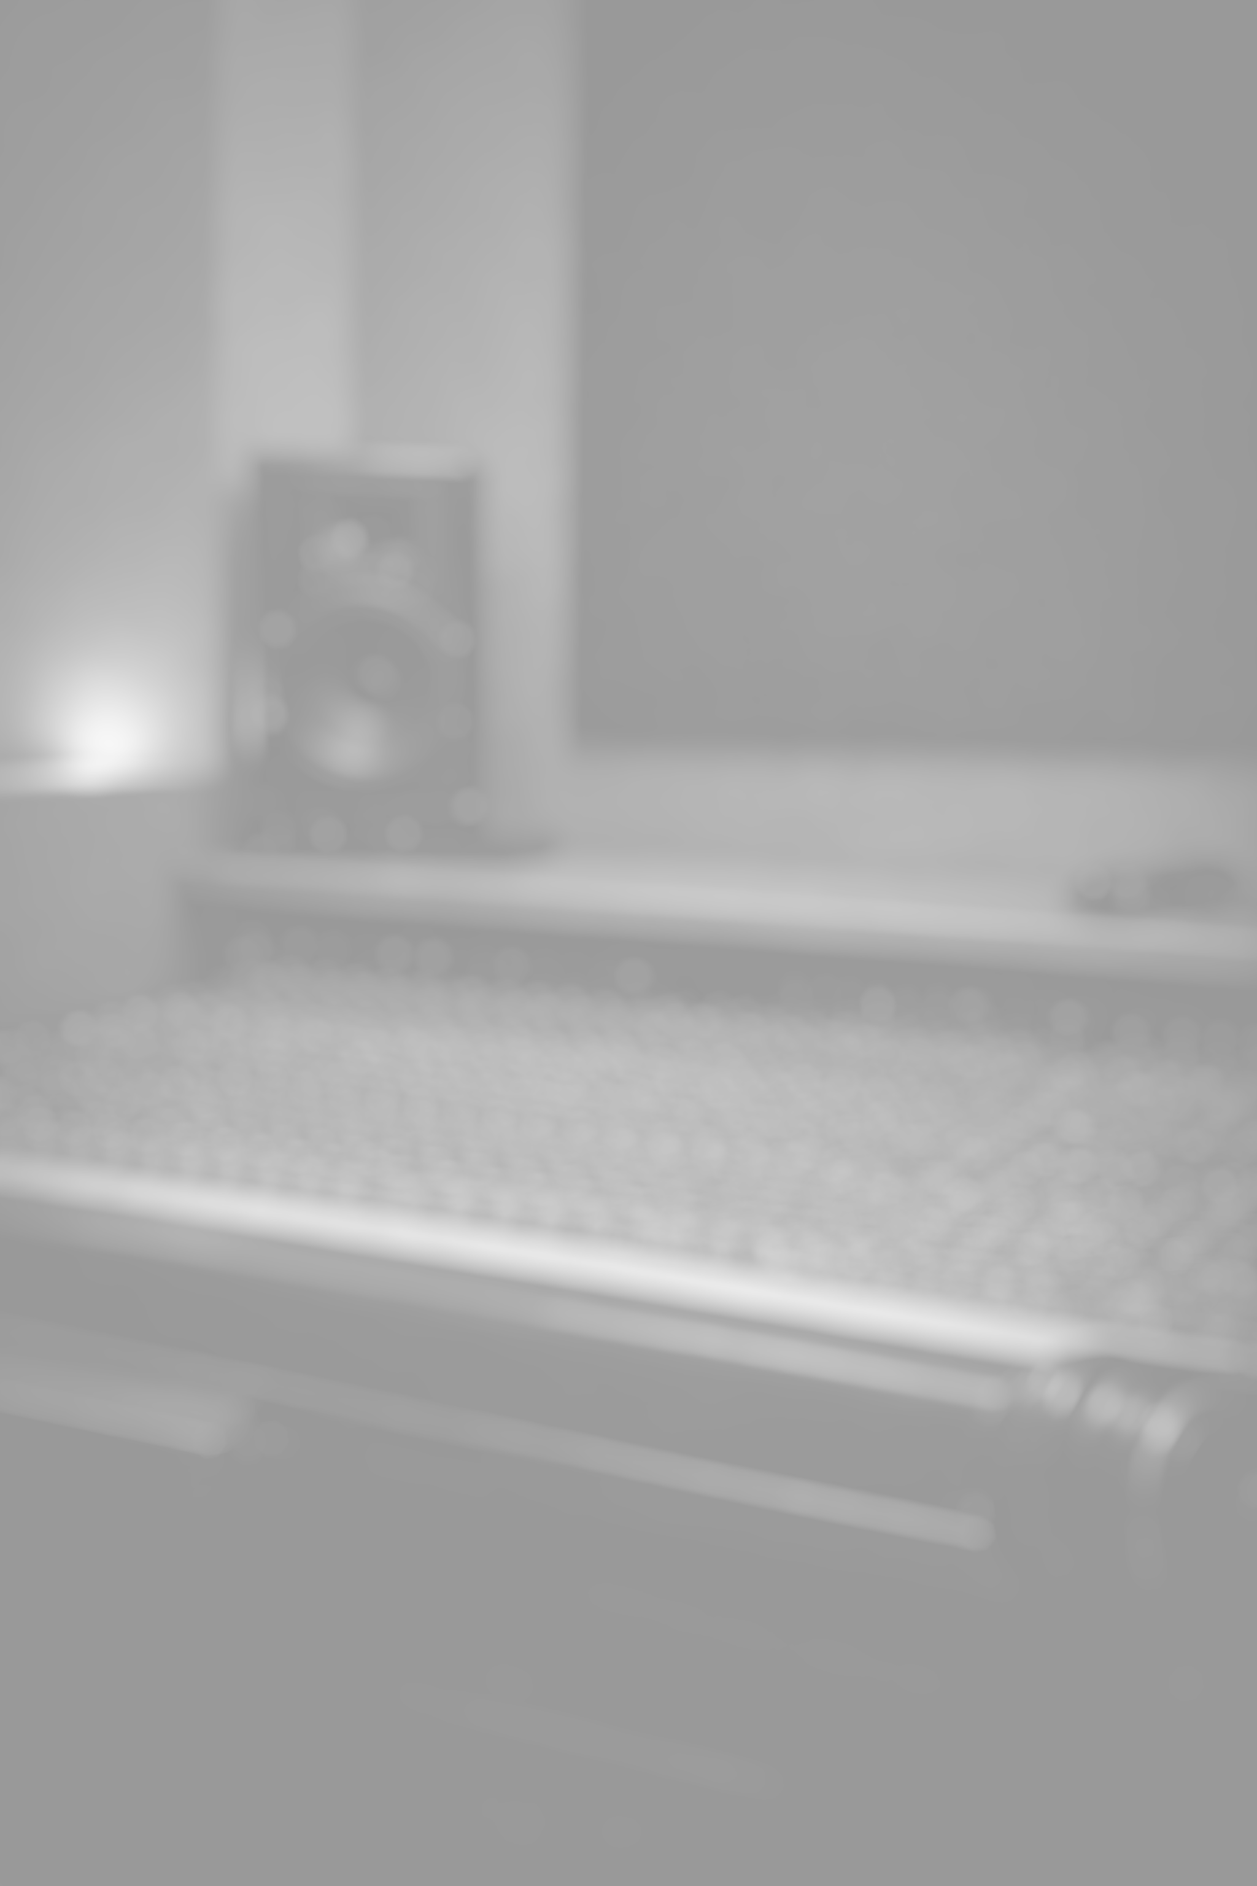
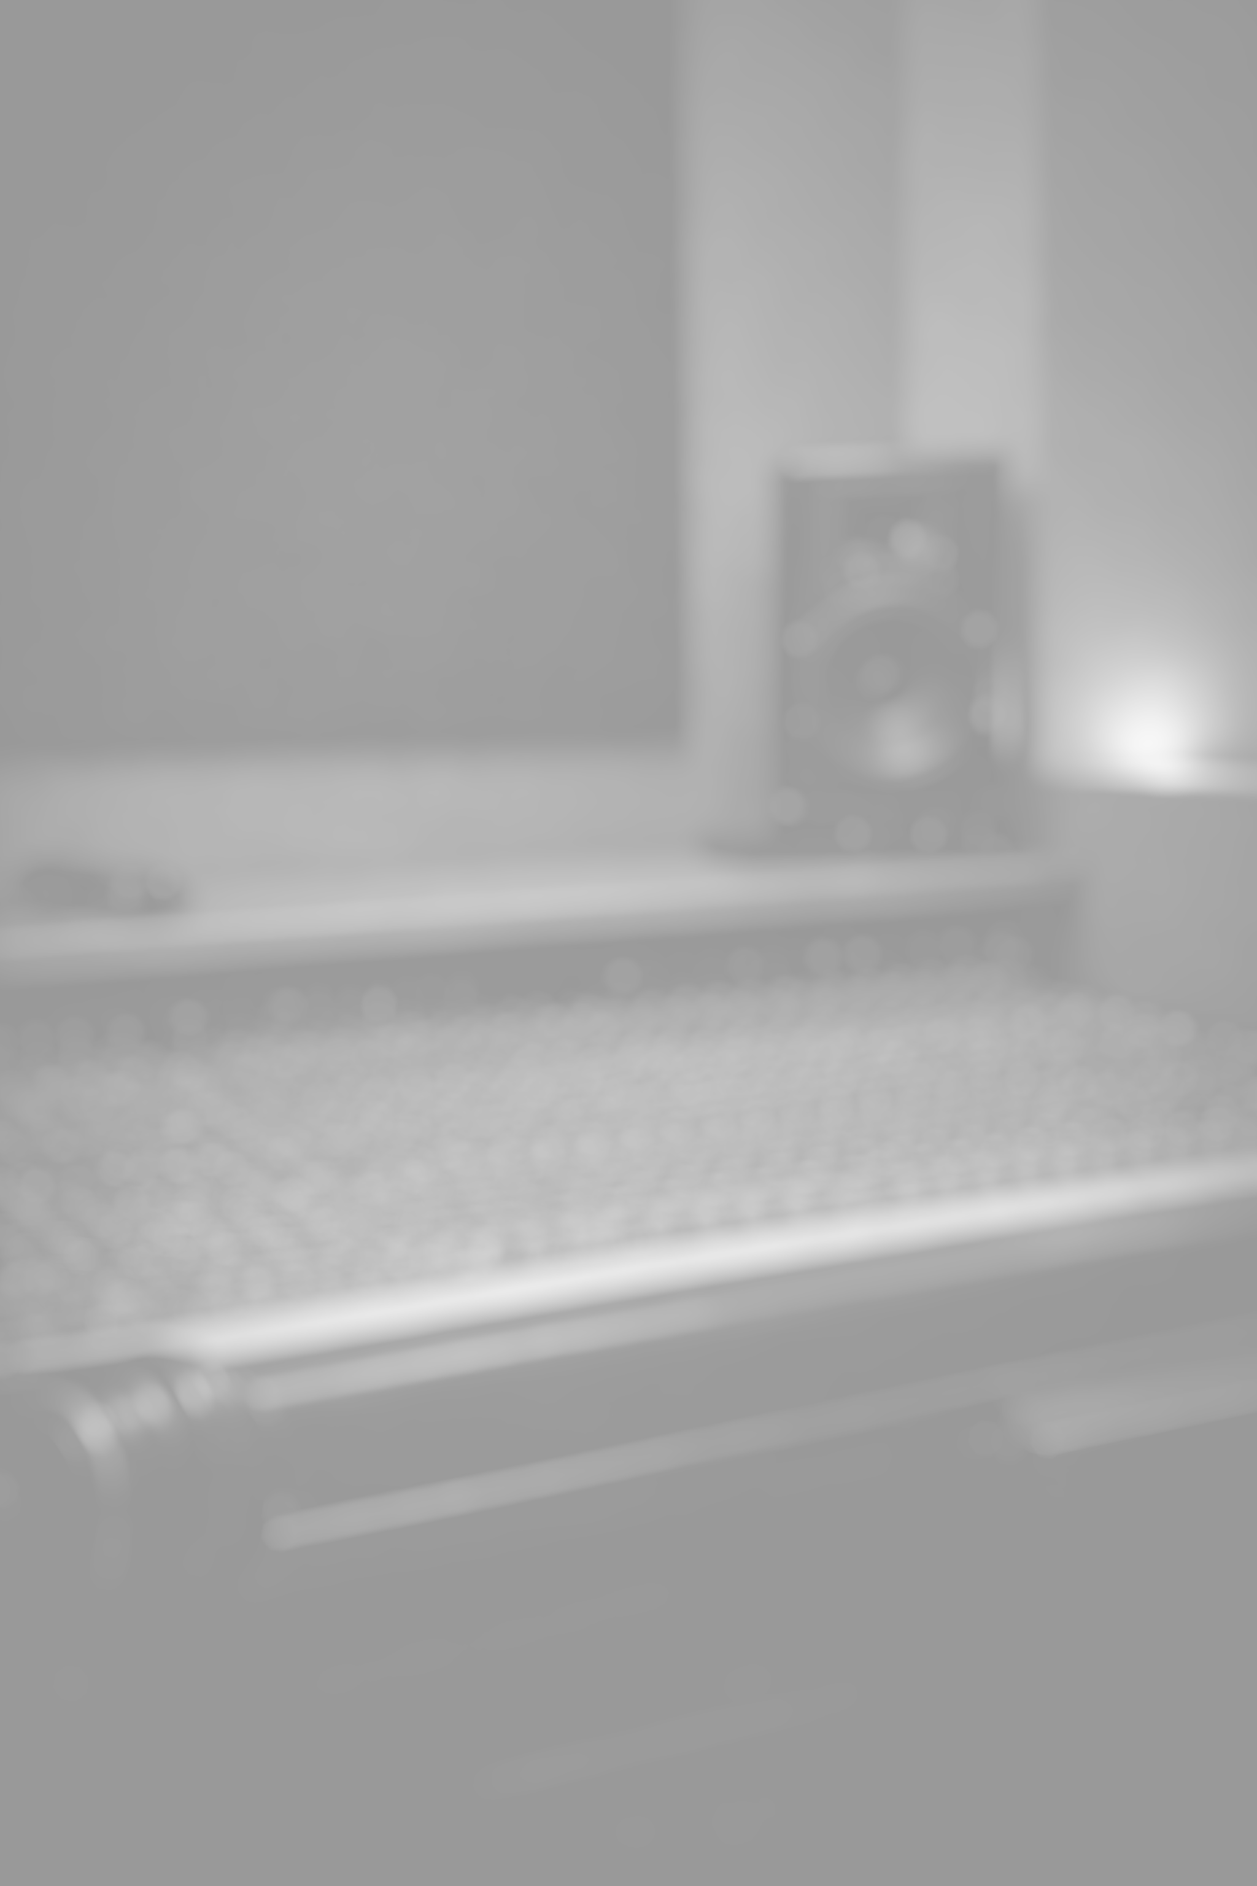
Updated Background Image & Stylesheet

diff --git a/public/css/stylesheet.css b/public/css/stylesheet.css
@@ -1,1 +1,1 @@
-:root{font-size:62.5%;--height: calc( var( --vh, 1vh ) * 100 );--width: calc( var( --vw, 1vw ) * 100 )}*,*::before,*::after{box-sizing:border-box;padding:0;margin:0;line-height:1;transform:translate3d(0, 0, 0);-webkit-tap-highlight-color:rgba(0,0,0,0)}ul{list-style:none}li{list-style-type:none}@font-face{font-family:'Posterama';src:url("../font/Posterama.eot");src:local("Posterama"),local("Posterama"),url("../font/Posterama.eot?#iefix") format("embedded-opentype"),url("../font/Posterama.woff2") format("woff2"),url("../font/Posterama.woff") format("woff"),url("../font/Posterama.ttf") format("truetype"),url("../font/Posterama.svg#Posterama") format("svg");font-weight:normal;font-style:normal;font-display:swap}::-webkit-scrollbar,::-webkit-scrollbar-button,::-webkit-scrollbar-track,::-webkit-scrollbar-track-piece,::-webkit-scrollbar-thumb,::-webkit-scrollbar-corner,::-webkit-resizer{display:none !important;background:none !important;background-color:transparent !important;border-radius:0 !important;box-shadow:none !important;border:none !important;outline:none !important;width:0 !important;height:0 !important;-webkit-appearance:none !important;-moz-appearance:none !important;appearance:none !important}body{scrollbar-color:transparent !important;scrollbar-width:0 !important}::-moz-selection,::selection{background-color:rgba(0,0,0,0);color:#FFF}:-moz-placeholder{color:rgba(255,255,255,0.9)}::-moz-placeholder{color:rgba(255,255,255,0.9)}:-ms-input-placeholder{color:rgba(255,255,255,0.9)}::-webkit-input-placeholder{color:rgba(255,255,255,0.9)}:placeholder-shown{color:rgba(255,255,255,0.9)}::placeholder{color:rgba(255,255,255,0.9)}html,body{height:100vh;width:100vw;background-color:#080808;background:url("../image/studio.png") no-repeat,linear-gradient(90deg, #1a1a1a 0%, #080808 50%, #1a1a1a 100%);background:url("../image/studio.png") no-repeat,linear-gradient( 90deg, hsl(0deg 4% 11%) 0%, hsl(0deg 3% 9%) 13%, hsl(0deg 2% 7%) 25%, hsl(0deg 1% 5%) 37%, hsl(0deg 0% 3%) 50%, hsl(0deg 1% 5%) 63%, hsl(0deg 2% 7%) 75%, hsl(0deg 3% 9%) 87%, hsl(0deg 4% 11%) 100% );background-size:cover;color:rgba(255,255,255,0.9);font:normal normal 700 1.6rem/1.168em -apple-system, BlinkMacSystemFont, segoe ui, helvetica neue, helvetica, Ubuntu, roboto, sans-serif;font-smoothing:antialiased;-moz-osx-font-smoothing:grayscale;-webkit-font-smoothing:antialiased;-moz-text-shadow:1px 1px 1px rgba(0,0,0,0.0004);-ms-text-shadow:1px 1px 1px rgba(0,0,0,0.0004);-o-text-shadow:1px 1px 1px rgba(0,0,0,0.0004);-webkit-text-shadow:1px 1px 1px rgba(0,0,0,0.0004);text-shadow:1px 1px 1px rgba(0,0,0,0.0004);-ms-backface-visibility:hidden;-moz-backface-visibility:hidden;-o-backface-visibility:hidden;-webkit-backface-visibility:hidden;-webkit-overflow-scrolling:touch;backface-visibility:hidden;scroll-behavior:smooth;overflow:hidden;height:var(--height);width:var(--width);-webkit-app-region:drag}body{display:grid;height:100vh;width:100vw;height:var(--height);width:var(--width);grid-template-columns:100%;grid-template-rows:85% 15%}body>header{display:flex;justify-content:center;grid-area:1 / 1 / span 1 / span 1;height:100%;width:100%;pointer-events:none;user-select:none}body>header>picture{position:absolute;display:flex;height:auto;width:clamp(100px, 80vw, 500px);width:clamp(100px, calc( 80 * var( --vw )), 500px);align-self:start;justify-content:center;align-items:center;margin-top:-5vh;margin-top:calc( -5 * var( --vh ));object-fit:contain;pointer-events:none;user-select:none}body>header>picture>img{height:auto;width:100%;opacity:0;pointer-events:none;user-select:none;animation:fade-logo 300ms ease-out 800ms forwards}body>header>h1{font-family:"Posterama", sans-serif;color:rgba(181,182,170,0.6);text-align:center;font-size:clamp(1.6em, 5vw, 7vh);font-size:clamp(1.6em, calc( 5 * var( --vw )), calc( 7 * var( --vh )));font-weight:100;text-shadow:1px 1px 2px rgba(11,11,11,0.4);white-space:nowrap;margin-top:16vh;margin-top:calc( 16 * var( --vh ));opacity:0;pointer-events:none;user-select:none;animation:fade-title 300ms ease-out 800ms forwards}body>main{position:absolute;top:0;left:0;display:flex;place-content:center;height:100vh;width:100vw;height:var(--height);width:var(--width);grid-area:1 / 1 / span 1 / span 1}body>main>iframe{height:clamp(30vh, calc( 0.6 * 80vw), 40vh);height:clamp(calc( 30 * var( --vh )), calc( 0.6 * calc( 80 * var( --vw ) )), calc( 40* var( --vh )));width:70vw;width:calc( 70 * var( --vw ));align-self:center;justify-self:center;margin-top:30vh;margin-top:calc( 30 * var( --vh ));opacity:0;animation:fade-widget 300ms ease-out 1000ms forwards;z-index:2}body>main>picture{position:fixed;top:0;margin-top:20vh;margin-top:calc( 20 * var( --vh ));object-fit:contain;pointer-events:none;user-select:none;z-index:1}body>main>picture>img{width:100%;height:auto;object-fit:contain;transform:scalex(-1);opacity:0;pointer-events:none;user-select:none;animation:fade-feature 400ms ease-out 300ms forwards}body>nav{display:flex;width:100vw;width:var(--width);justify-content:center;align-items:center;grid-area:2 / 1 / span 1 / span 1;background:linear-gradient(0deg, rgba(8,8,8,0.8) 50%, rgba(8,8,8,0) 100%);opacity:0;animation:fade-icons 300ms ease-out 500ms forwards}body>nav>ul{display:flex;width:100vw;width:var(--width);padding:0 10vw;padding:0 calc( 10 * var( --vw ));flex-direction:row;flex-wrap:nowrap;justify-content:space-between}body>nav>ul>li>a,body>nav>ul>li a:link,body>nav>ul>li a:visited,body>nav>ul>li a:hover,body>nav>ul>li a:active{color:rgba(202,202,203,0.9);font-family:-apple-system, BlinkMacSystemFont, segoe ui, "Segoe UI", helvetica neue, helvetica, Tahoma, Geneva, Verdana, Ubuntu, roboto, sans-serif;font-size:1rem;text-decoration:none;font-weight:700;text-align:center}body>nav>ul>li>a>figure,body>nav>ul>li a:link>figure,body>nav>ul>li a:visited>figure,body>nav>ul>li a:hover>figure,body>nav>ul>li a:active>figure{display:flex;flex-direction:column;justify-content:center;align-items:center}body>nav>ul>li>a>figure>picture,body>nav>ul>li a:link>figure>picture,body>nav>ul>li a:visited>figure>picture,body>nav>ul>li a:hover>figure>picture,body>nav>ul>li a:active>figure>picture{display:flex;height:auto;width:clamp(6vh, 12vw, 46px);width:clamp(6vh, calc( 12 * var( --vw )), 46px)}body>nav>ul>li>a>figure>picture>img,body>nav>ul>li a:link>figure>picture>img,body>nav>ul>li a:visited>figure>picture>img,body>nav>ul>li a:hover>figure>picture>img,body>nav>ul>li a:active>figure>picture>img{height:auto;width:100%;border:none;outline:none;opacity:0.9}body>nav>ul>li>a>figure>figcaption,body>nav>ul>li a:link>figure>figcaption,body>nav>ul>li a:visited>figure>figcaption,body>nav>ul>li a:hover>figure>figcaption,body>nav>ul>li a:active>figure>figcaption{display:none;margin-top:1rem;font-size:1.6em;font-weight:900;text-transform:uppercase;font-family:'Segoe UI', Tahoma, Geneva, Verdana, sans-serif;color:rgba(202,202,203,0.4)}body>nav>ul>li[data-view=full],body>nav>ul>li[data-show=false]{display:none}body>footer{position:fixed;display:none;bottom:1vh;bottom:calc( 1 * var( --vh ));left:0;width:100vw;width:var(--width);padding-bottom:env(safe-area-inset-bottom)}body>footer>ul{display:flex;flex-direction:row;flex-wrap:nowrap;align-items:center;justify-content:flex-end}body>footer>ul>li{color:rgba(202,202,203,0.2);font-family:-apple-system, BlinkMacSystemFont, segoe ui, "Segoe UI", helvetica neue, helvetica, Tahoma, Geneva, Verdana, Ubuntu, roboto, sans-serif;font-size:0.8em;font-size:clamp(0.8em, 0.8rem, 12px);font-weight:600;margin-right:1vw;margin-right:calc( 1 * var( --vw ))}@media only screen and (orientation: landscape){body{grid-template-rows:80% 20%}body>main>iframe{height:30vh;height:calc( 30 * var( --vh ));width:40vw;width:calc( 40 * var( --vw ))}body>main>picture{top:0;bottom:unset;height:auto;height:30vh;height:calc( 30 * var( --vh ));margin-top:4vh;margin-top:calc( 4 * var( --vh ));z-index:1}body>nav>ul>li>a>figure>picture,body>nav>ul>li a:link>figure>picture,body>nav>ul>li a:visited>figure>picture,body>nav>ul>li a:hover>figure>picture,body>nav>ul>li a:active>figure>picture{width:clamp(2vh, 10vh, 64px);width:clamp(calc( 2 * var( --vh )), calc( 10 * var( --vh )), 64px)}body>nav>ul>li[data-view=full]{display:unset}}@media only screen and (min-width: 768px) and (min-height: 1024px){body{grid-template-rows:30% 70%}body>header>picture{position:absolute;height:30vh;height:calc( 30 * var( --vh ));width:auto}body>header>picture>img{height:100%;width:auto}body>header>h1{display:unset;animation:fade-title 300ms ease-out 800ms forwards}body>main{grid-area:2 / 1 / span 1 / span 1}body>main>iframe{width:30vw;height:30vh;width:calc( 30 * var( --vw ));height:calc( 30 * var( --vh ));max-width:600px;max-height:400px;align-self:end;margin-bottom:40vh;margin-bottom:calc( 40 * var( --vh ))}body>main>picture{height:80vh;height:calc( 80 * var( --vh ));width:auto;margin-top:unset;z-index:1}body>main>picture>img{height:100%;width:auto}body>nav{grid-area:1 / 1 / span 1 / span 1;background:none;align-self:end;margin-bottom:1vh;margin-bottom:calc( 1 * var( --vh ))}body>nav>ul{justify-content:center}body>nav>ul>li{width:clamp(calc( 2vh * 2), calc( 10vh * 2), calc( 64px * 2));width:clamp(calc( calc( 2 * var( --vh ) ) * 2), calc( calc( 10 * var( --vh ) ) * 2), calc( 64px * 2))}body>nav>ul>li>a>figure>picture,body>nav>ul>li a:link>figure>picture,body>nav>ul>li a:visited>figure>picture,body>nav>ul>li a:hover>figure>picture,body>nav>ul>li a:active>figure>picture{width:clamp(2vh, 10vh, 64px);width:clamp(calc( 2 * var( --vh )), calc( 10 * var( --vh )), 64px)}body>nav>ul>li[data-view=full]{display:unset}body>footer{display:unset}}@keyframes fade-feature{to{opacity:0.94}}@keyframes fade-icons{to{opacity:1}}@keyframes fade-logo{to{opacity:0.3}}@keyframes fade-title{to{opacity:1}}@keyframes fade-widget{to{opacity:0.7}}@media (min-width: 1025px) and (pointer: fine) and (hover: hover){@keyframes fade-logo{to{opacity:0.3}}}
+:root{font-size:62.5%;--height: calc( var( --vh, 1vh ) * 100 );--width: calc( var( --vw, 1vw ) * 100 )}*,*::before,*::after{box-sizing:border-box;padding:0;margin:0;line-height:1;transform:translate3d(0, 0, 0);-webkit-tap-highlight-color:rgba(0,0,0,0)}ul{list-style:none}li{list-style-type:none}@font-face{font-family:'Posterama';src:url("../font/Posterama.eot");src:local("Posterama"),local("Posterama"),url("../font/Posterama.eot?#iefix") format("embedded-opentype"),url("../font/Posterama.woff2") format("woff2"),url("../font/Posterama.woff") format("woff"),url("../font/Posterama.ttf") format("truetype"),url("../font/Posterama.svg#Posterama") format("svg");font-weight:normal;font-style:normal;font-display:swap}::-webkit-scrollbar,::-webkit-scrollbar-button,::-webkit-scrollbar-track,::-webkit-scrollbar-track-piece,::-webkit-scrollbar-thumb,::-webkit-scrollbar-corner,::-webkit-resizer{display:none !important;background:none !important;background-color:transparent !important;border-radius:0 !important;box-shadow:none !important;border:none !important;outline:none !important;width:0 !important;height:0 !important;-webkit-appearance:none !important;-moz-appearance:none !important;appearance:none !important}body{scrollbar-color:transparent !important;scrollbar-width:0 !important}::-moz-selection,::selection{background-color:rgba(0,0,0,0);color:#FFF}:-moz-placeholder{color:rgba(255,255,255,0.9)}::-moz-placeholder{color:rgba(255,255,255,0.9)}:-ms-input-placeholder{color:rgba(255,255,255,0.9)}::-webkit-input-placeholder{color:rgba(255,255,255,0.9)}:placeholder-shown{color:rgba(255,255,255,0.9)}::placeholder{color:rgba(255,255,255,0.9)}html,body{height:100vh;width:100vw;background-color:#080808;background:url("../image/studio.png") no-repeat,linear-gradient(90deg, #1a1a1a 0%, #080808 50%, #1a1a1a 100%);background:url("../image/studio.png") no-repeat,linear-gradient( 90deg, hsl(0deg 4% 11%) 0%, hsl(0deg 3% 9%) 13%, hsl(0deg 2% 7%) 25%, hsl(0deg 1% 5%) 37%, hsl(0deg 0% 3%) 50%, hsl(0deg 1% 5%) 63%, hsl(0deg 2% 7%) 75%, hsl(0deg 3% 9%) 87%, hsl(0deg 4% 11%) 100% );background-size:cover;color:rgba(255,255,255,0.9);font:normal normal 700 1.6rem/1.168em -apple-system, BlinkMacSystemFont, segoe ui, helvetica neue, helvetica, Ubuntu, roboto, sans-serif;font-smoothing:antialiased;-moz-osx-font-smoothing:grayscale;-webkit-font-smoothing:antialiased;-moz-text-shadow:1px 1px 1px rgba(0,0,0,0.0004);-ms-text-shadow:1px 1px 1px rgba(0,0,0,0.0004);-o-text-shadow:1px 1px 1px rgba(0,0,0,0.0004);-webkit-text-shadow:1px 1px 1px rgba(0,0,0,0.0004);text-shadow:1px 1px 1px rgba(0,0,0,0.0004);-ms-backface-visibility:hidden;-moz-backface-visibility:hidden;-o-backface-visibility:hidden;-webkit-backface-visibility:hidden;-webkit-overflow-scrolling:touch;backface-visibility:hidden;scroll-behavior:smooth;overflow:hidden;height:var(--height);width:var(--width);-webkit-app-region:drag}body{display:grid;height:100vh;width:100vw;height:var(--height);width:var(--width);grid-template-columns:100%;grid-template-rows:85% 15%}body>header{display:flex;justify-content:center;grid-area:1 / 1 / span 1 / span 1;height:100%;width:100%;pointer-events:none;user-select:none}body>header>picture{position:absolute;display:flex;height:auto;width:clamp(100px, 80vw, 500px);width:clamp(100px, calc( 80 * var( --vw )), 500px);align-self:start;justify-content:center;align-items:center;margin-top:-5vh;margin-top:calc( -5 * var( --vh ));object-fit:contain;pointer-events:none;user-select:none}body>header>picture>img{height:auto;width:100%;opacity:0;pointer-events:none;user-select:none;animation:fade-logo 300ms ease-out 800ms forwards}body>header>h1{font-family:"Posterama", sans-serif;color:rgba(181,182,170,0.6);text-align:center;font-size:clamp(1.6em, 5vw, 7vh);font-size:clamp(1.6em, calc( 5 * var( --vw )), calc( 7 * var( --vh )));font-weight:100;text-shadow:1px 1px 2px rgba(11,11,11,0.4);white-space:nowrap;margin-top:16vh;margin-top:calc( 16 * var( --vh ));opacity:0;pointer-events:none;user-select:none;animation:fade-title 300ms ease-out 800ms forwards}body>main{position:absolute;top:0;left:0;display:flex;place-content:center;height:100vh;width:100vw;height:var(--height);width:var(--width);grid-area:1 / 1 / span 1 / span 1}body>main>iframe{height:clamp(30vh, calc( 0.6 * 80vw), 40vh);height:clamp(calc( 30 * var( --vh )), calc( 0.6 * calc( 80 * var( --vw ) )), calc( 40* var( --vh )));width:70vw;width:calc( 70 * var( --vw ));align-self:center;justify-self:center;margin-top:30vh;margin-top:calc( 30 * var( --vh ));opacity:0;animation:fade-widget 300ms ease-out 1000ms forwards;z-index:2}body>main>picture{position:fixed;top:0;margin-top:20vh;margin-top:calc( 20 * var( --vh ));object-fit:contain;pointer-events:none;user-select:none;z-index:1}body>main>picture>img{width:100%;height:auto;object-fit:contain;opacity:0;pointer-events:none;user-select:none;animation:fade-feature 400ms ease-out 300ms forwards}body>nav{display:flex;width:100vw;width:var(--width);justify-content:center;align-items:center;grid-area:2 / 1 / span 1 / span 1;background:linear-gradient(0deg, rgba(8,8,8,0.8) 50%, rgba(8,8,8,0) 100%);opacity:0;animation:fade-icons 300ms ease-out 500ms forwards}body>nav>ul{display:flex;width:100vw;width:var(--width);padding:0 10vw;padding:0 calc( 10 * var( --vw ));flex-direction:row;flex-wrap:nowrap;justify-content:space-between}body>nav>ul>li>a,body>nav>ul>li a:link,body>nav>ul>li a:visited,body>nav>ul>li a:hover,body>nav>ul>li a:active{color:rgba(202,202,203,0.9);font-family:-apple-system, BlinkMacSystemFont, segoe ui, "Segoe UI", helvetica neue, helvetica, Tahoma, Geneva, Verdana, Ubuntu, roboto, sans-serif;font-size:1rem;text-decoration:none;font-weight:700;text-align:center}body>nav>ul>li>a>figure,body>nav>ul>li a:link>figure,body>nav>ul>li a:visited>figure,body>nav>ul>li a:hover>figure,body>nav>ul>li a:active>figure{display:flex;flex-direction:column;justify-content:center;align-items:center}body>nav>ul>li>a>figure>picture,body>nav>ul>li a:link>figure>picture,body>nav>ul>li a:visited>figure>picture,body>nav>ul>li a:hover>figure>picture,body>nav>ul>li a:active>figure>picture{display:flex;height:auto;width:clamp(6vh, 12vw, 46px);width:clamp(6vh, calc( 12 * var( --vw )), 46px)}body>nav>ul>li>a>figure>picture>img,body>nav>ul>li a:link>figure>picture>img,body>nav>ul>li a:visited>figure>picture>img,body>nav>ul>li a:hover>figure>picture>img,body>nav>ul>li a:active>figure>picture>img{height:auto;width:100%;border:none;outline:none;opacity:0.9}body>nav>ul>li>a>figure>figcaption,body>nav>ul>li a:link>figure>figcaption,body>nav>ul>li a:visited>figure>figcaption,body>nav>ul>li a:hover>figure>figcaption,body>nav>ul>li a:active>figure>figcaption{display:none;margin-top:1rem;font-size:1.6em;font-weight:900;text-transform:uppercase;font-family:'Segoe UI', Tahoma, Geneva, Verdana, sans-serif;color:rgba(202,202,203,0.4)}body>nav>ul>li[data-view=full],body>nav>ul>li[data-show=false]{display:none}body>footer{position:fixed;display:none;bottom:1vh;bottom:calc( 1 * var( --vh ));left:0;width:100vw;width:var(--width);padding-bottom:env(safe-area-inset-bottom)}body>footer>ul{display:flex;flex-direction:row;flex-wrap:nowrap;align-items:center;justify-content:flex-end}body>footer>ul>li{color:rgba(202,202,203,0.2);font-family:-apple-system, BlinkMacSystemFont, segoe ui, "Segoe UI", helvetica neue, helvetica, Tahoma, Geneva, Verdana, Ubuntu, roboto, sans-serif;font-size:0.8em;font-size:clamp(0.8em, 0.8rem, 12px);font-weight:600;margin-right:1vw;margin-right:calc( 1 * var( --vw ))}@media only screen and (orientation: landscape){body{grid-template-rows:80% 20%}body>main>iframe{height:30vh;height:calc( 30 * var( --vh ));width:40vw;width:calc( 40 * var( --vw ))}body>main>picture{top:0;bottom:unset;height:auto;height:30vh;height:calc( 30 * var( --vh ));margin-top:4vh;margin-top:calc( 4 * var( --vh ));z-index:1}body>nav>ul>li>a>figure>picture,body>nav>ul>li a:link>figure>picture,body>nav>ul>li a:visited>figure>picture,body>nav>ul>li a:hover>figure>picture,body>nav>ul>li a:active>figure>picture{width:clamp(2vh, 10vh, 64px);width:clamp(calc( 2 * var( --vh )), calc( 10 * var( --vh )), 64px)}body>nav>ul>li[data-view=full]{display:unset}}@media only screen and (min-width: 768px) and (min-height: 1024px){body{grid-template-rows:30% 70%}body>header>picture{position:absolute;height:30vh;height:calc( 30 * var( --vh ));width:auto}body>header>picture>img{height:100%;width:auto}body>header>h1{display:unset;animation:fade-title 300ms ease-out 800ms forwards}body>main{grid-area:2 / 1 / span 1 / span 1}body>main>iframe{width:30vw;height:30vh;width:calc( 30 * var( --vw ));height:calc( 30 * var( --vh ));max-width:600px;max-height:400px;align-self:end;margin-bottom:40vh;margin-bottom:calc( 40 * var( --vh ))}body>main>picture{height:80vh;height:calc( 80 * var( --vh ));width:auto;margin-top:unset;z-index:1}body>main>picture>img{height:100%;width:auto}body>nav{grid-area:1 / 1 / span 1 / span 1;background:none;align-self:end;margin-bottom:1vh;margin-bottom:calc( 1 * var( --vh ))}body>nav>ul{justify-content:center}body>nav>ul>li{width:clamp(calc( 2vh * 2), calc( 10vh * 2), calc( 64px * 2));width:clamp(calc( calc( 2 * var( --vh ) ) * 2), calc( calc( 10 * var( --vh ) ) * 2), calc( 64px * 2))}body>nav>ul>li>a>figure>picture,body>nav>ul>li a:link>figure>picture,body>nav>ul>li a:visited>figure>picture,body>nav>ul>li a:hover>figure>picture,body>nav>ul>li a:active>figure>picture{width:clamp(2vh, 10vh, 64px);width:clamp(calc( 2 * var( --vh )), calc( 10 * var( --vh )), 64px)}body>nav>ul>li[data-view=full]{display:unset}body>footer{display:unset}}@keyframes fade-feature{to{opacity:0.94}}@keyframes fade-icons{to{opacity:1}}@keyframes fade-logo{to{opacity:0.3}}@keyframes fade-title{to{opacity:1}}@keyframes fade-widget{to{opacity:0.7}}@media (min-width: 1025px) and (pointer: fine) and (hover: hover){@keyframes fade-logo{to{opacity:0.3}}}

diff --git a/src/scss/components/_layout.scss b/src/scss/components/_layout.scss
@@ -99,7 +99,6 @@ body {
                 width: 100%;
                 height: auto;
                 object-fit: contain;
-                transform: scalex( -1 );
                 opacity: 0;
                 pointer-events: none;
                 user-select: none;
